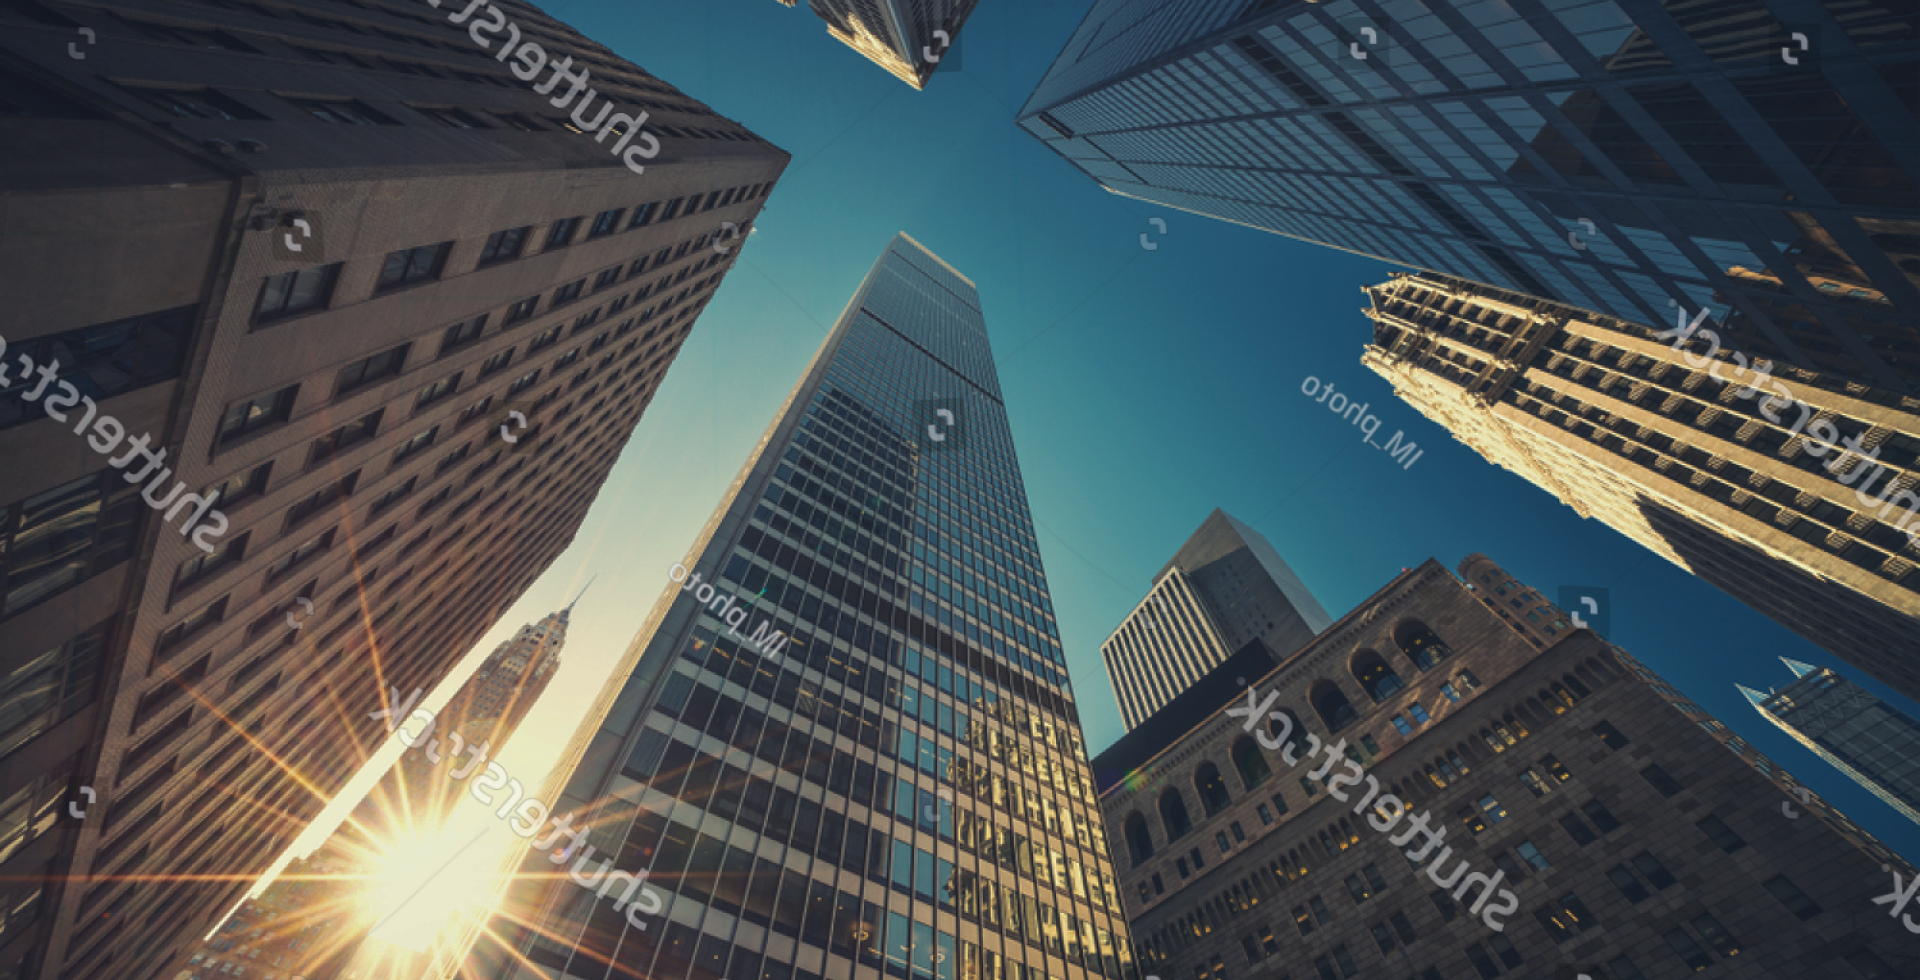
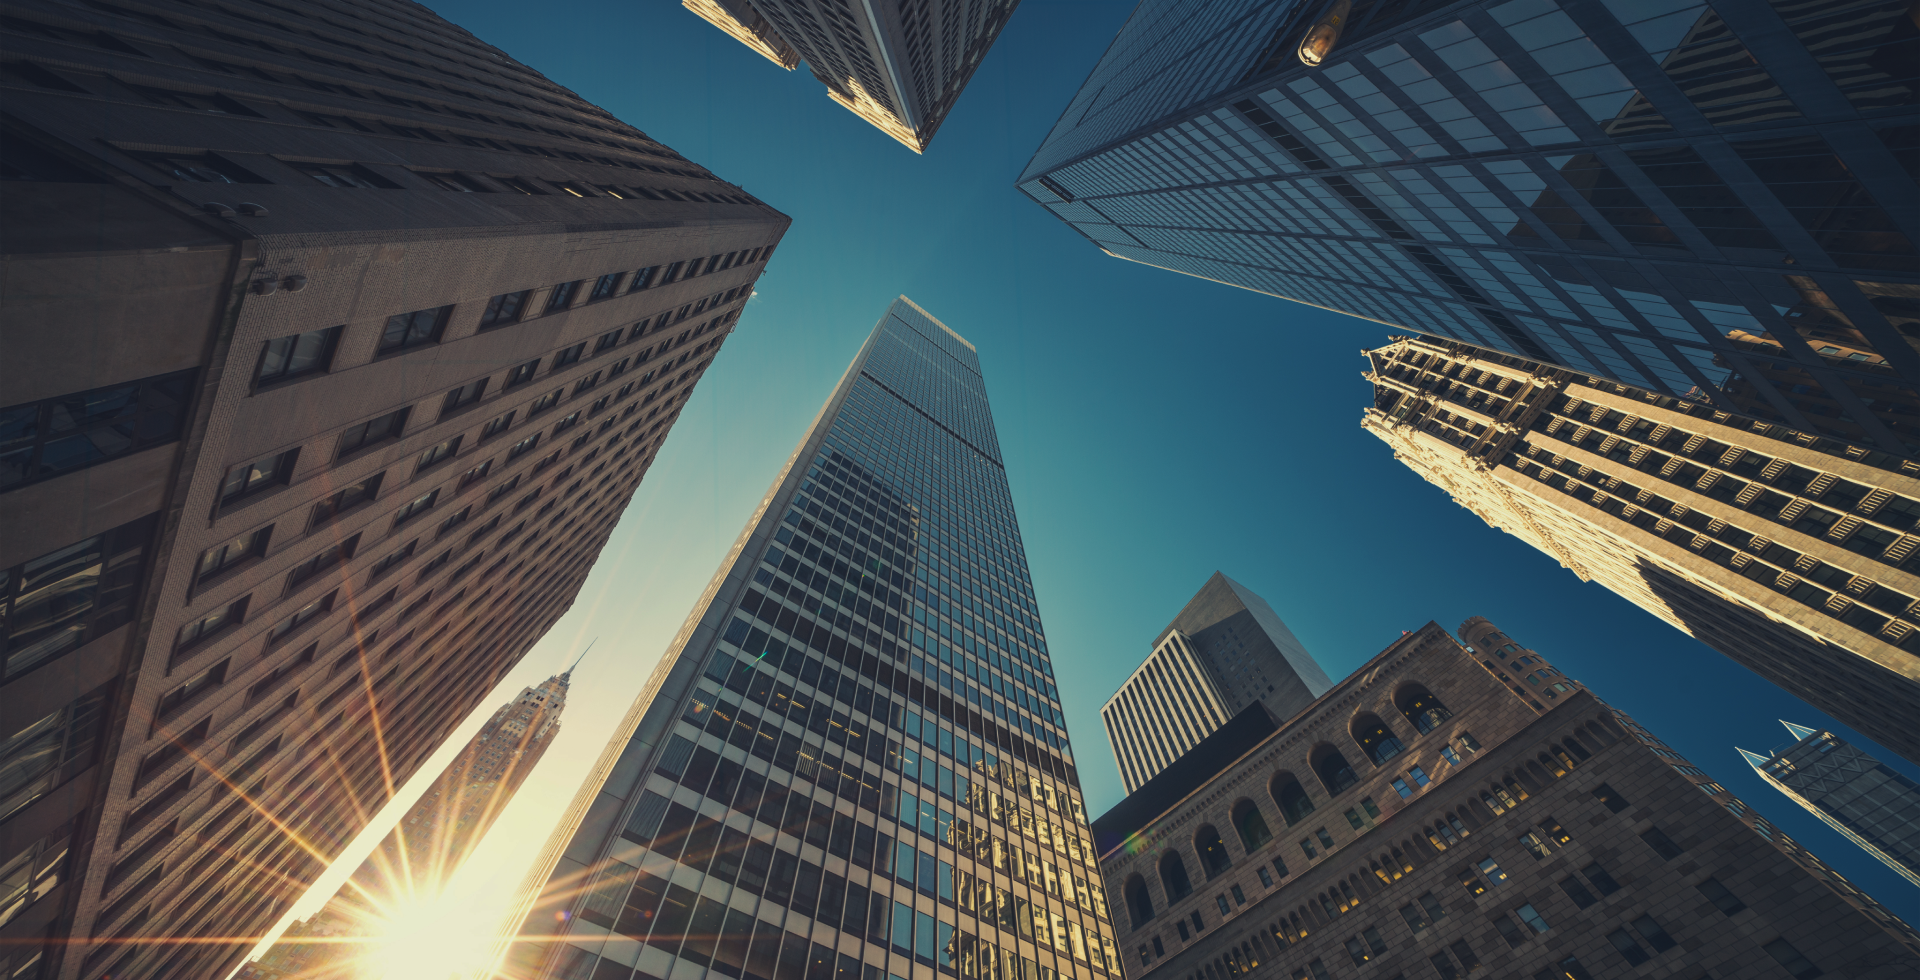
update photo

diff --git a/index.html b/index.html
@@ -120,19 +120,6 @@
             </div>
         </div>
 
-        <div class="main-slider__item">
-            <img src="img/first-slide.png" alt="" class="main-slider__item_img">
-            <div class="main-slider__item_content">
-                <div class="wrapper">
-                    <h2 class="main-slider__item_main">
-                        Предпроектные работы 5
-                    </h2>
-                    <button class="header-top__right_button main-slider__item_btn">
-                        Подробнее
-                    </button>
-                </div>
-            </div>
-        </div>
     </main>
 
     <section class="relize-project">
